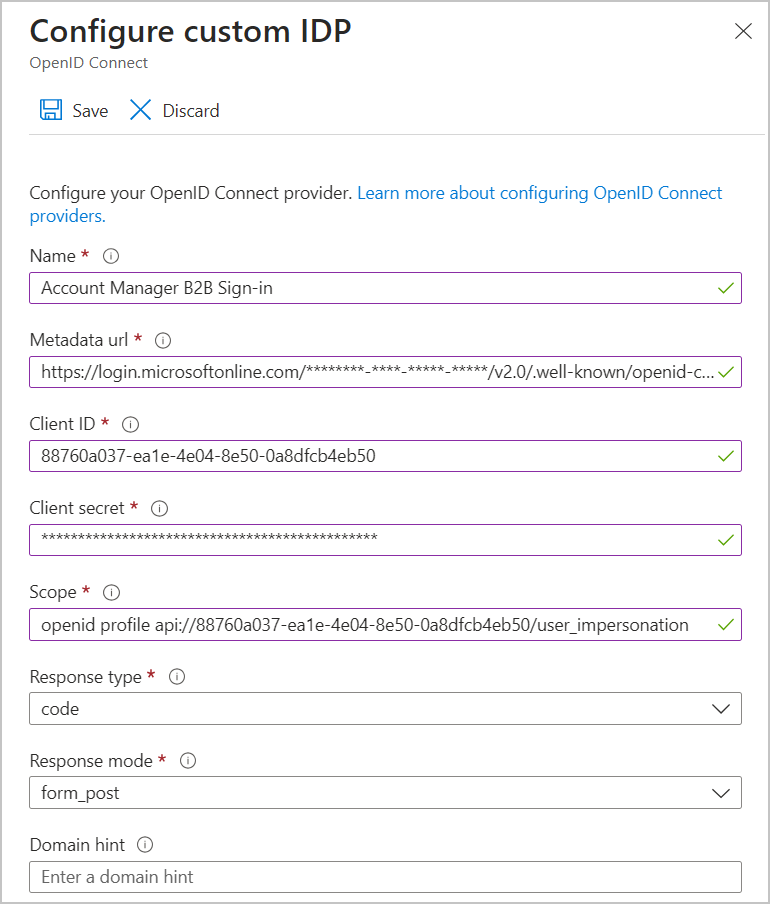
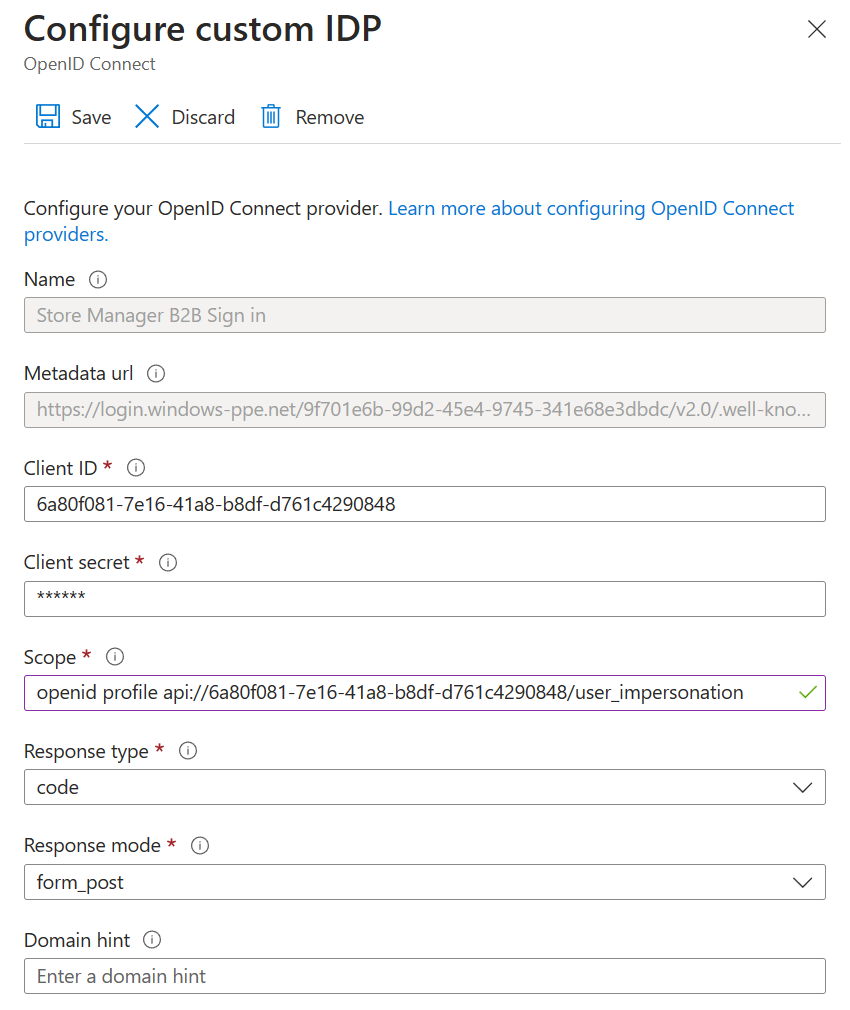
Fix OBO documentation

diff --git a/articles/commerce/dev-itpro/obo-create-aad-application.md b/articles/commerce/dev-itpro/obo-create-aad-application.md
@@ -71,7 +71,7 @@ To configure an identity provider in your Azure B2C tenant for account manager s
 1. Go to the directory that contains your Azure AD B2C tenant. On the top menu, select the **Directory + subscription** filter, and then select the directory that contains your Azure AD B2C tenant.
 1. In the upper-left corner of the Azure portal, select **All services** , and then search for and select **Azure AD B2C**.
 1. Select **Identity providers**, and then select **New OpenID Connect provider**.
-1. In the **Name** field, enter "Account Manager B2B Sign-in". This exact name is required and can't be modified. 
+1. In the **Name** field, enter **Store Manager B2B Sign in**. This exact name is required and can't be modified.
 1. In the **Metadata url** field, enter the URL of the Azure B2B OpenID Connect (OIDC) configuration document (for example, `https://login.microsoftonline.com/<TENANT-ID>/v2.0/.well-known/openid-configuration`, where `<TENANT-ID>` is the ID of your Azure AD B2B tenant). 
 
     > [!IMPORTANT]
